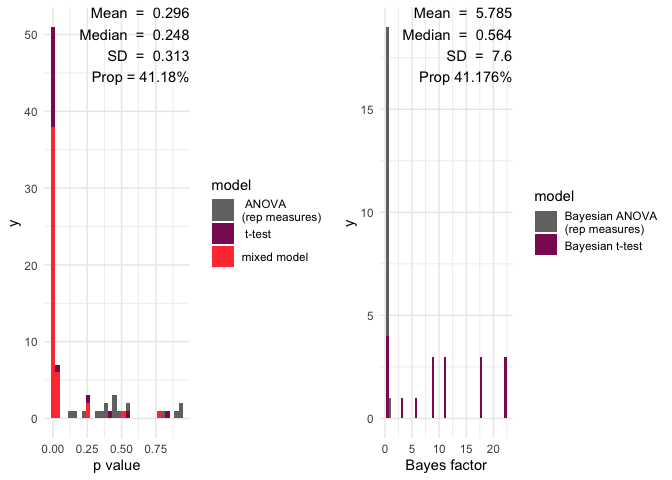
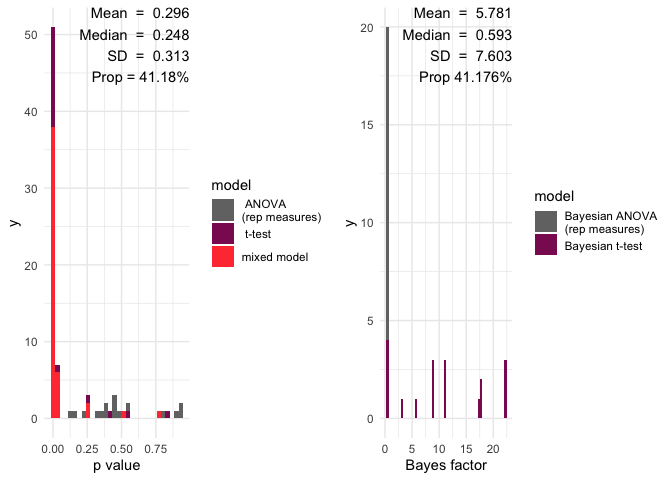
Small updates in README file

diff --git a/README.md b/README.md
@@ -314,9 +314,9 @@ function and you will get:
 ``` r
 multifear::inference_cs(res_multi, na.rm = TRUE)
 #>   mean_p_value median_p_value sd_p_value prop_p_value mean_bf_value
-#> 1    0.1074323     0.00638261  0.2341194     82.35294      1862.755
+#> 1    0.1074323     0.00638261  0.2341194     82.35294      1897.458
 #>   median_bf_value sd_bf_value prop_bf_value
-#> 1        4.319848     10014.9      73.52941
+#> 1        4.319848    10211.61      73.52941
 ```
 
 And here we have a barplot of the results:
